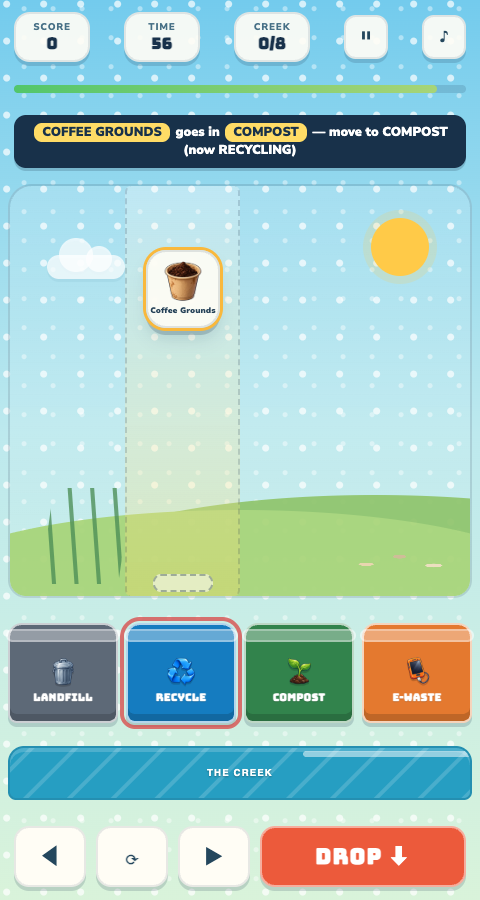
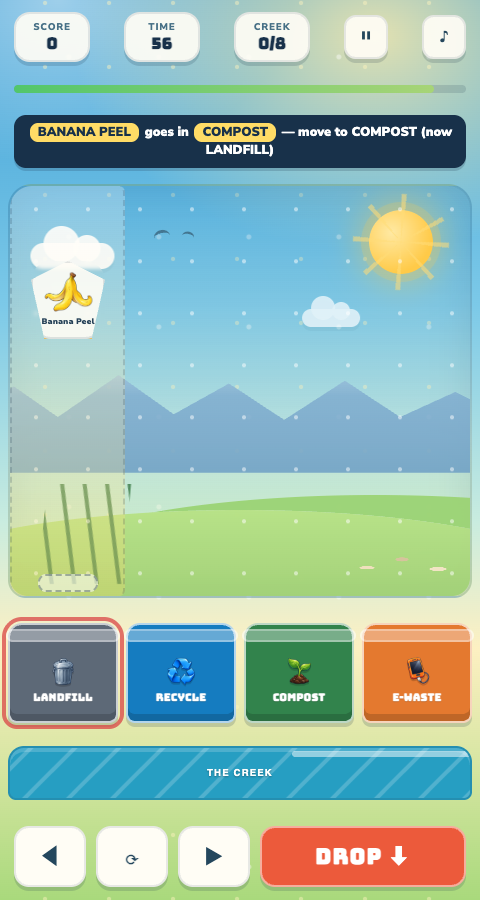
feat(game): upgrade background to animated creek-valley scene

diff --git a/index.html b/index.html
@@ -353,16 +353,25 @@
     --cream: var(--paper);
     --shadow: rgba(24,49,74,.22);
   }
-  body { font-family: 'Nunito Sans', sans-serif; background: #b9e6ee; }
+  body { font-family: 'Nunito Sans', sans-serif; background: #0e2a3f; }
   #app {
-    background: linear-gradient(180deg, #73cbed 0%, #bde9ee 48%, #d9f3da 100%);
+    background:
+      radial-gradient(ellipse 90% 34% at 78% 4%, rgba(255,236,170,.85), transparent 70%),
+      radial-gradient(ellipse 70% 26% at 12% 0%, rgba(255,255,255,.5), transparent 70%),
+      linear-gradient(180deg, #3d9fd6 0%, #7cc9e8 34%, #c9ecdf 58%, #fdf0c2 72%, #a9d97c 100%);
     isolation: isolate;
   }
   #app::before {
     content: ''; position: absolute; inset: 0; pointer-events: none; z-index: -1;
-    background-image: radial-gradient(circle at 18% 11%, rgba(255,255,255,.7) 0 3px, transparent 4px), radial-gradient(circle at 83% 30%, rgba(255,255,255,.42) 0 2px, transparent 3px);
-    background-size: 37px 37px, 29px 29px;
+    background-image:
+      radial-gradient(circle, rgba(255,255,255,.85) 0 2px, transparent 3px),
+      radial-gradient(circle, rgba(255,244,190,.9) 0 1.6px, transparent 2.6px);
+    background-size: 90px 90px, 64px 64px;
+    background-position: 0 0, 30px 18px;
+    opacity: .5;
+    animation: moteDrift 26s linear infinite;
   }
+  @keyframes moteDrift { 0% { background-position: 0 0, 30px 18px; } 100% { background-position: 90px 45px, -34px 82px; } }
   h1.title, button.big-btn, #hud, #comboBadge, .bin, .ctrl-btn, .float-score, #endStats { font-family: 'Bungee', cursive; }
   h1.title { font-size: clamp(2.4rem, 11vw, 3.35rem); letter-spacing: .025em; color: var(--navy); text-shadow: 0 4px 0 rgba(255,255,255,.78); }
   h1.title span { color: #eb5a3c; }
@@ -384,16 +393,33 @@
   #fitGuide { position: absolute; top: 69px; right: 14px; z-index: 8; background: #18314a; color: white; border: 2px solid rgba(255,255,255,.65); border-radius: 12px; box-shadow: 0 3px 0 rgba(24,49,74,.2); padding: 5px 8px; font-size: .55rem; letter-spacing: .04em; }
   #fitGuide.ready { background: #287d45; }
 
-  #field { margin: 0 8px; width: calc(100% - 16px); border: 2px solid rgba(24,49,74,.15); border-radius: 24px 24px 18px 18px; background: linear-gradient(180deg, rgba(255,255,255,.17), rgba(255,255,255,.02)); }
-  .game-scene { position: absolute; inset: 0; overflow: hidden; pointer-events: none; }
-  .scene-sun { position: absolute; width: 58px; height: 58px; border-radius: 50%; background: var(--sun); top: 8%; right: 9%; box-shadow: 0 0 0 8px rgba(255,202,72,.18); }
-  .scene-cloud { position: absolute; width: 78px; height: 24px; border-radius: 30px; background: rgba(255,255,255,.72); top: 17%; left: 8%; filter: drop-shadow(0 3px 0 rgba(54,121,143,.1)); }
+  #field { margin: 0 8px; width: calc(100% - 16px); border: 2px solid rgba(24,49,74,.15); border-radius: 24px 24px 18px 18px; background: linear-gradient(180deg, rgba(61,159,214,.28), rgba(253,240,194,.20) 62%, rgba(169,217,124,.30)); box-shadow: inset 0 0 40px rgba(24,49,74,.12); }
+  .game-scene { position: absolute; inset: 0; overflow: hidden; pointer-events: none; border-radius: inherit; }
+  .scene-sun { position: absolute; width: 64px; height: 64px; border-radius: 50%; background: radial-gradient(circle at 35% 35%, #ffe9a3, var(--sun) 70%); top: 6%; right: 8%; box-shadow: 0 0 0 8px rgba(255,202,72,.18), 0 0 34px 10px rgba(255,202,72,.45); }
+  .scene-sun::before { content: ''; position: absolute; inset: -16px; border-radius: 50%; background: conic-gradient(from 0deg, transparent 0 12deg, rgba(255,220,120,.55) 12deg 18deg, transparent 18deg 45deg, rgba(255,220,120,.55) 45deg 51deg, transparent 51deg 90deg, rgba(255,220,120,.55) 90deg 96deg, transparent 96deg 135deg, rgba(255,220,120,.55) 135deg 141deg, transparent 141deg 180deg, rgba(255,220,120,.55) 180deg 186deg, transparent 186deg 225deg, rgba(255,220,120,.55) 225deg 231deg, transparent 231deg 270deg, rgba(255,220,120,.55) 270deg 276deg, transparent 276deg 315deg, rgba(255,220,120,.55) 315deg 321deg, transparent 321deg 360deg); animation: sunSpin 40s linear infinite; }
+  @keyframes sunSpin { to { transform: rotate(360deg); } }
+  .scene-cloud { position: absolute; width: 84px; height: 26px; border-radius: 30px; background: rgba(255,255,255,.9); top: 14%; left: 6%; filter: drop-shadow(0 4px 0 rgba(54,121,143,.12)); animation: cloudDrift 17s ease-in-out infinite alternate; }
   .scene-cloud::before, .scene-cloud::after { content: ''; position: absolute; bottom: 7px; background: inherit; border-radius: 50%; }
-  .scene-cloud::before { width: 34px; height: 34px; left: 12px; }
-  .scene-cloud::after { width: 26px; height: 26px; right: 13px; }
-  .scene-hills { position: absolute; height: 38%; width: 140%; bottom: -17%; left: -20%; border-radius: 50% 50% 0 0; background: #a7d477; box-shadow: 135px -15px 0 #8fc46b, 240px 12px 0 #c3df8f; opacity: .92; }
-  .scene-reeds { position: absolute; bottom: 3%; left: 8%; width: 78px; height: 96px; background: repeating-linear-gradient(78deg, transparent 0 11px, #4b8d55 12px 15px, transparent 16px 22px); transform: skewX(-8deg); opacity: .78; }
-  .scene-pebbles { position: absolute; bottom: 6%; right: 5%; width: 95px; height: 24px; background: radial-gradient(ellipse at 15% 72%, #e8d6af 0 7px, transparent 8px), radial-gradient(ellipse at 50% 40%, #cfbd98 0 6px, transparent 7px), radial-gradient(ellipse at 86% 77%, #ecdfbf 0 8px, transparent 9px); }
+  .scene-cloud::before { width: 36px; height: 36px; left: 13px; }
+  .scene-cloud::after { width: 27px; height: 27px; right: 14px; }
+  .scene-cloud.two { width: 58px; height: 18px; top: 30%; left: 62%; opacity: .75; animation-duration: 23s; animation-delay: -8s; }
+  .scene-cloud.two::before { width: 24px; height: 24px; left: 9px; }
+  .scene-cloud.two::after { width: 18px; height: 18px; right: 10px; }
+  @keyframes cloudDrift { from { transform: translateX(-14px); } to { transform: translateX(20px); } }
+  .scene-birds { position: absolute; top: 9%; left: 30%; width: 60px; height: 20px; opacity: .6; animation: birdBob 5s ease-in-out infinite alternate; }
+  .scene-birds::before, .scene-birds::after { content: ''; position: absolute; top: 4px; width: 16px; height: 10px; border-top: 3px solid #2b4a5e; border-radius: 50%; }
+  .scene-birds::before { left: 6px; transform: rotate(-12deg); }
+  .scene-birds::after { left: 32px; transform: rotate(10deg) scale(.75); }
+  @keyframes birdBob { from { transform: translateY(-3px); } to { transform: translateY(4px); } }
+  .scene-mountains { position: absolute; bottom: 30%; left: -10%; width: 120%; height: 34%; background: linear-gradient(180deg, #8fb8d8, #6d9ec4); clip-path: polygon(0 100%, 0 62%, 9% 38%, 17% 60%, 28% 30%, 38% 58%, 48% 36%, 58% 62%, 69% 34%, 79% 60%, 89% 42%, 100% 64%, 100% 100%); opacity: .85; }
+  .scene-mountains::after { content: ''; position: absolute; inset: 0; background: linear-gradient(180deg, rgba(255,255,255,.55), transparent 45%); clip-path: polygon(0 100%, 0 62%, 9% 38%, 17% 60%, 28% 30%, 38% 58%, 48% 36%, 58% 62%, 69% 34%, 79% 60%, 89% 42%, 100% 64%, 100% 100%); }
+  .scene-hills { position: absolute; height: 36%; width: 150%; bottom: -15%; left: -25%; border-radius: 50% 50% 0 0; background: linear-gradient(180deg, #b7e184, #8fc46b); box-shadow: 135px -15px 0 #9bd374, 240px 12px 0 #c9e79b; opacity: .95; }
+  .scene-pines { position: absolute; bottom: 22%; left: 0; width: 100%; height: 44px; background: conic-gradient(from 180deg at 8% 100%, #2e6b46 0 8deg, transparent 8deg 16deg, #35794f 16deg 22deg, transparent 22deg 30deg, #2e6b46 30deg 37deg, transparent 37deg 46deg, #35794f 46deg 52deg, transparent 52deg 60deg, #2e6b46 60deg 67deg, transparent 67deg 76deg, #35794f 76deg 82deg, transparent 82deg 90deg); background-size: 180px 44px; background-repeat: repeat-x; opacity: .9; }
+  .scene-reeds { position: absolute; bottom: 3%; left: 6%; width: 84px; height: 100px; background: repeating-linear-gradient(78deg, transparent 0 11px, #3f7d4b 12px 15px, transparent 16px 22px); transform: skewX(-8deg); opacity: .85; animation: reedSway 4s ease-in-out infinite alternate; transform-origin: bottom; }
+  @keyframes reedSway { from { transform: skewX(-11deg); } to { transform: skewX(-4deg); } }
+  .scene-pebbles { position: absolute; bottom: 5%; right: 4%; width: 100px; height: 26px; background: radial-gradient(ellipse at 15% 72%, #efe0bd 0 7px, transparent 8px), radial-gradient(ellipse at 50% 40%, #d6c49c 0 6px, transparent 7px), radial-gradient(ellipse at 86% 77%, #f2e4c4 0 8px, transparent 9px); }
+  .scene-motes { position: absolute; inset: 0; background-image: radial-gradient(circle, rgba(255,255,255,.9) 0 1.6px, transparent 2.4px); background-size: 52px 52px; opacity: .55; animation: moteFloat 9s ease-in-out infinite alternate; }
+  @keyframes moteFloat { from { transform: translateY(6px); } to { transform: translateY(-8px); } }
 
   .item { width: 74px; height: 78px; border-radius: 20px; background: rgba(255,253,245,.9); border: 2px solid rgba(24,49,74,.12); box-shadow: 0 7px 0 rgba(24,49,74,.2), 0 12px 16px rgba(24,49,74,.12); padding: 3px 2px 4px; justify-content: flex-start; gap: 0; backdrop-filter: blur(2px); }
   .item.active { box-shadow: 0 0 0 3px #f9b83c, 0 7px 0 rgba(24,49,74,.2), 0 12px 16px rgba(24,49,74,.12); }
@@ -415,7 +441,8 @@
   .bin.flash-good { filter: brightness(1.2) saturate(1.45); transform: translateY(-3px); }
 
   #creek { height: 54px; margin: 7px 8px 0; border: 2px solid rgba(24,49,74,.14); border-radius: 16px 16px 8px 8px; box-shadow: inset 0 4px rgba(255,255,255,.18); }
-  #creek::before { content: ''; position: absolute; inset: 0; background: repeating-linear-gradient(135deg, transparent 0 13px, rgba(255,255,255,.18) 14px 17px, transparent 18px 31px); opacity: .9; }
+  #creek::before { content: ''; position: absolute; inset: 0; background: repeating-linear-gradient(135deg, transparent 0 13px, rgba(255,255,255,.22) 14px 17px, transparent 18px 31px); background-size: 44px 44px; opacity: .9; animation: creekFlow 2.6s linear infinite; }
+  @keyframes creekFlow { from { background-position: 0 0; } to { background-position: 44px 0; } }
   #creek-label { letter-spacing: .12em; font-size: .6rem; }
   .muck { background: linear-gradient(180deg, rgba(119,83,48,.78), var(--creek-dirty)); }
   #controls { gap: 10px; padding: 10px 14px calc(13px + env(safe-area-inset-bottom, 0px)); }
@@ -549,7 +576,10 @@
   @media (prefers-reduced-motion: reduce) {
     .item.fitted { animation: none; }
     #app.shake { animation: none; }
+    #app::before { animation: none; }
     #creek::after { animation: none; display: none; }
+    #creek::before { animation: none; }
+    .scene-sun::before, .scene-cloud, .scene-birds, .scene-reeds, .scene-motes { animation: none; }
     .confetti-bit { animation-duration: .01s; }
   }
   @media (min-width: 600px) { #app { height: min(94vh, 880px); border-radius: 30px; box-shadow: 0 20px 70px rgba(24,49,74,.27); border: 8px solid rgba(255,255,255,.7); } }
@@ -589,7 +619,7 @@
     <div id="coachHint" class="hidden" aria-live="polite"></div>
     <div id="field">
       <div class="game-scene" aria-hidden="true">
-        <div class="scene-sun"></div><div class="scene-cloud"></div><div class="scene-hills"></div><div class="scene-reeds"></div><div class="scene-pebbles"></div>
+        <div class="scene-mountains"></div><div class="scene-sun"></div><div class="scene-cloud"></div><div class="scene-cloud two"></div><div class="scene-birds"></div><div class="scene-pines"></div><div class="scene-hills"></div><div class="scene-reeds"></div><div class="scene-pebbles"></div><div class="scene-motes"></div>
       </div>
       <div id="laneGuide" aria-hidden="true"></div>
       <div id="dropGhost" aria-hidden="true"></div>
